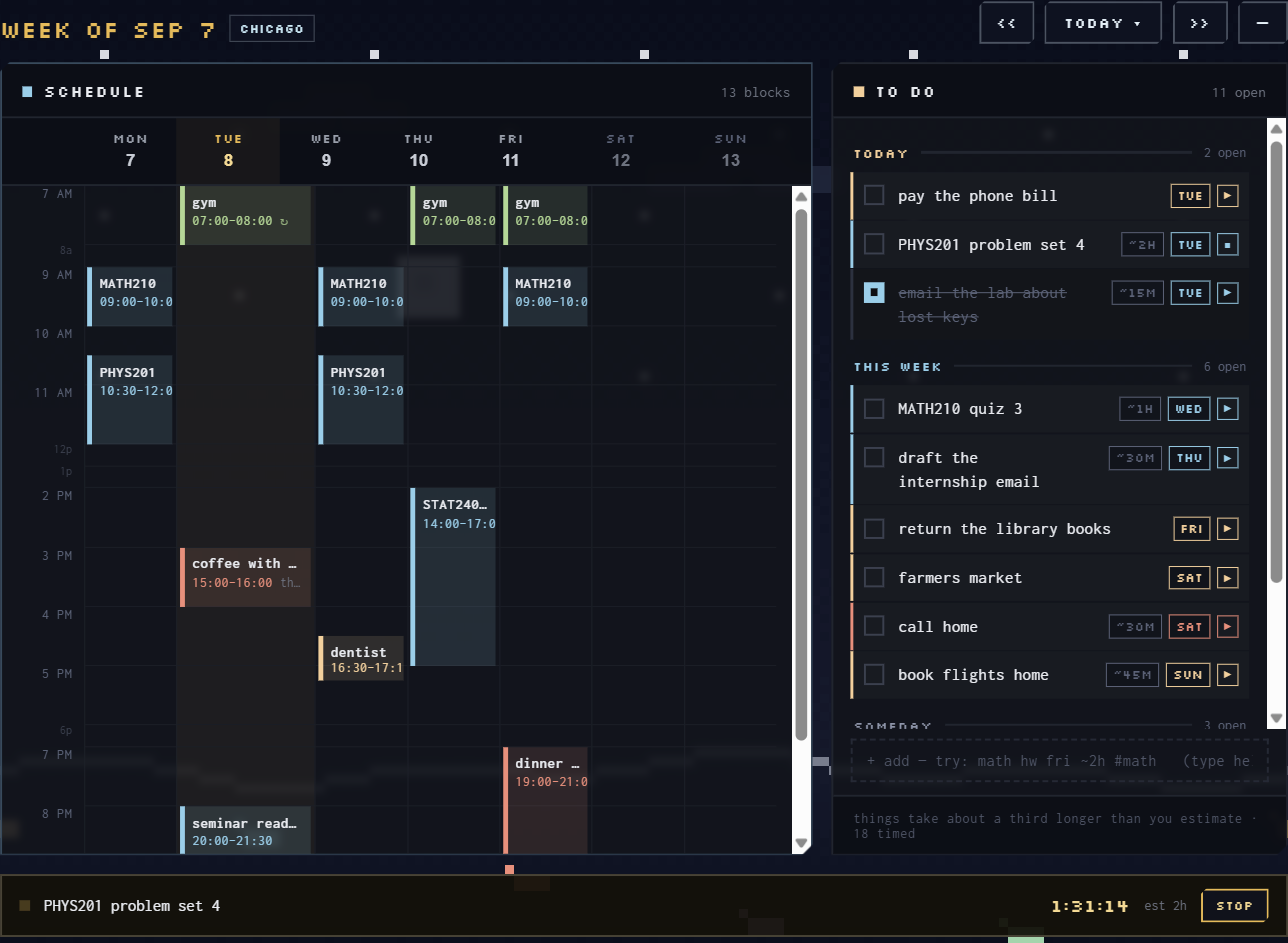
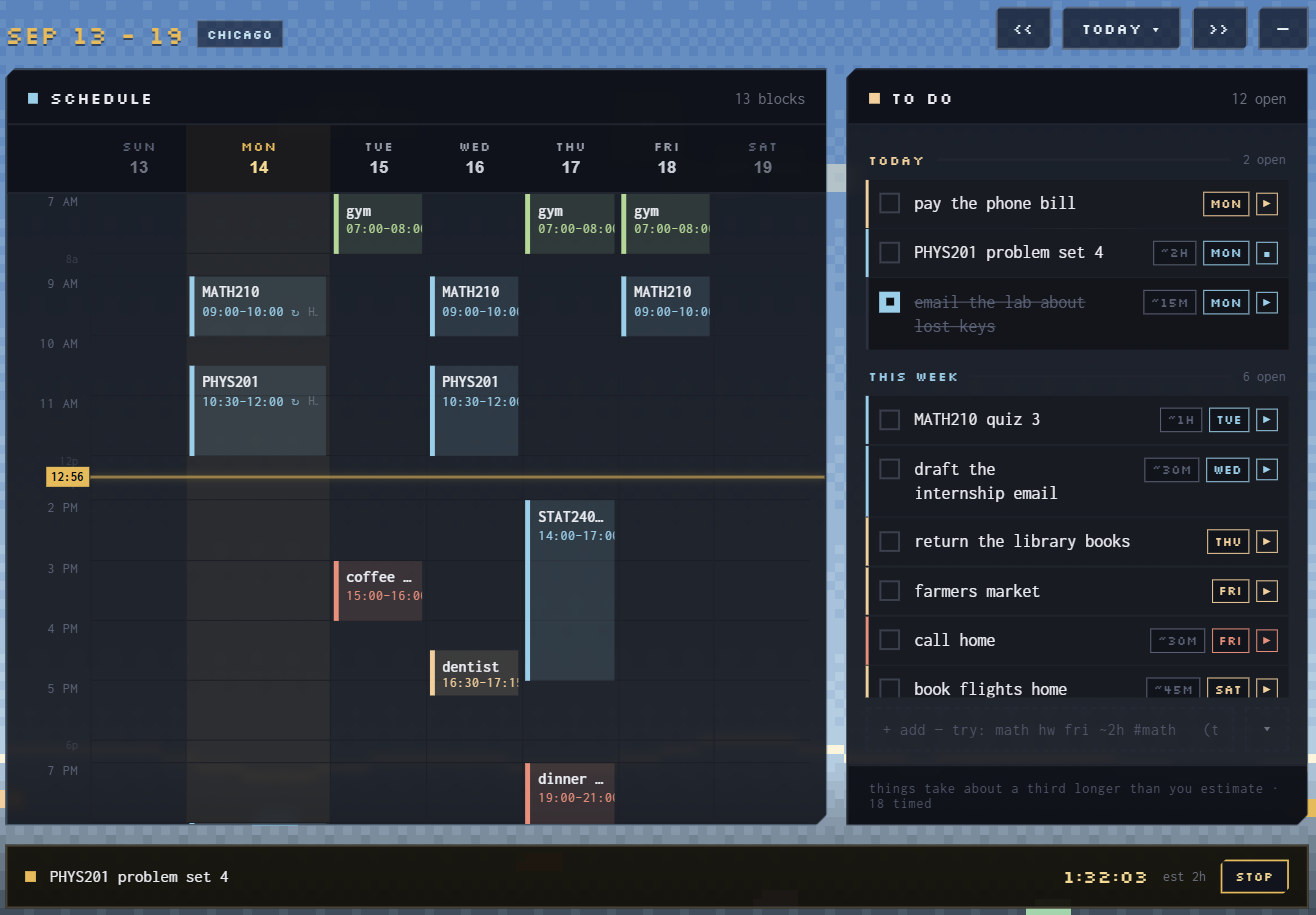
Screenshots of the week as it is now, from a fixture that keeps up
Both README screenshots were out of date: the hero showed "WEEK OF SEP 7" and
the Monday-first week, and the slot shot showed the one-line box that clicking
an hour no longer opens. They now show the rolling window, the now line with
its time box, the pane without scrollbars, and the prefilled field form.

Retaking them turned up a fixture problem: every date in the harness was
pinned to 7-13 September 2026, so once the window rolled past that week it
showed "0 blocks" -- and would have for anyone running it later. The fixture
is now placed against the real week each time it loads: classes on their
weekdays across this week and next, one-offs and due dates around today, and
times written as local wall-clock with no offset so they read the same in any
season. Nothing in it is a hard-coded date any more.

The slot shot's caption is updated to match what it shows.

Claude-Session: https://claude.ai/code/session_01AeBsWmBes22VeJkYkoWQon

diff --git a/tools/frontend-harness/stub.js b/tools/frontend-harness/stub.js
@@ -10,14 +10,19 @@
 
 const EMPTY = new URLSearchParams(location.search).has("empty");
 
-// A Monday, so the week starts where the app starts it.
-const MONDAY = "2026-09-07";
+// Everything is placed against the real week, so the fixture looks the same
+// whenever it is run: classes on their weekdays, everything else around today.
+const NOW = new Date();
+const MON = new Date(NOW.getFullYear(), NOW.getMonth(), NOW.getDate() - ((NOW.getDay() + 6) % 7));
+/** Today's offset from that Monday. */
+const T = (NOW.getDay() + 6) % 7;
+const MONDAY = `${MON.getFullYear()}-${String(MON.getMonth() + 1).padStart(2, "0")}-${String(MON.getDate()).padStart(2, "0")}`;
 const iso = (offset) => {
-  const d = new Date(2026, 8, 7 + offset);
+  const d = new Date(MON.getFullYear(), MON.getMonth(), MON.getDate() + offset);
   return `${d.getFullYear()}-${String(d.getMonth() + 1).padStart(2, "0")}-${String(d.getDate()).padStart(2, "0")}`;
 };
-// Chicago is UTC-5 in September; the frontend renders whatever offset it is given.
-const at = (offset, hhmm) => `${iso(offset)}T${hhmm}:00-05:00`;
+// Local wall-clock times with no offset, so they read the same in any season.
+const at = (offset, hhmm) => `${iso(offset)}T${hhmm}:00`;
 
 let seq = 0;
 const uid = (p) => `${p}_${(++seq).toString().padStart(4, "0")}`;
@@ -37,7 +42,7 @@ function itemFor(id, title, category, place, recurs, estimate_min) {
 /** A class: the same item placed on several days. */
 function course(title, days, start, end, place, category) {
   const id = itemFor(uid("itm"), title, category, place, true, null);
-  return days.map((d) => ({
+  return days.flatMap((d) => [d, d + 7]).map((d) => ({
     id: `plc_${iso(d)}_${id}`,
     item_id: id,
     title,
@@ -76,10 +81,10 @@ const blocks = EMPTY ? [] : [
   ...course("MATH210", [0, 2, 4], "09:00", "10:00", "Hall 1.204", "work"),
   ...course("STAT240 lab", [3], "14:00", "17:00", "Lab 3.210", "work"),
   ...course("gym", [1, 3, 4], "07:00", "08:00", null, "body"),
-  ...oneOff("coffee with Sam", 1, "15:00", "16:00", "the corner cafe", "social"),
-  ...oneOff("dentist", 2, "16:30", "17:15", null, "life"),
-  ...oneOff("dinner at Ana's", 4, "19:00", "21:00", null, "social"),
-  ...oneOff("seminar reading", 1, "20:00", "21:30", null, "work"),
+  ...oneOff("coffee with Sam", T + 1, "15:00", "16:00", "the corner cafe", "social"),
+  ...oneOff("dentist", T + 2, "16:30", "17:15", null, "life"),
+  ...oneOff("dinner at Ana's", T + 3, "19:00", "21:00", null, "social"),
+  ...oneOff("seminar reading", T, "20:00", "21:30", null, "work"),
 ];
 
 /** Seven days from whatever start the app asks for, as the real backend does. */
@@ -116,18 +121,18 @@ function todo(title, dueOffset, dueTime, opts = {}) {
   };
 }
 
-// "Today" in these screenshots is Tuesday 8 September.
+// Due dates sit around today, so every bucket and both chip styles appear.
 const todos = EMPTY ? [] : [
-  todo("PHYS201 problem set 4", 1, "23:59", { estimate_min: 120, category: "work", spent_sec: 2700 }),
-  todo("pay the phone bill", 1, "18:00", { category: "life" }),
-  todo("email the lab about lost keys", 1, "17:00", { estimate_min: 15, category: "work", done: true }),
-  todo("MATH210 quiz 3", 2, "23:59", { estimate_min: 60, category: "work" }),
-  todo("draft the internship email", 3, "12:00", { estimate_min: 30, category: "work" }),
-  todo("return the library books", 4, "17:00", { category: "life" }),
-  todo("farmers market", 5, "10:00", { category: "life" }),
-  todo("call home", 5, "18:00", { estimate_min: 30, category: "social" }),
-  todo("book flights home", 6, "23:59", { estimate_min: 45, category: "life" }),
-  todo("renew passport", 30, "12:00", { category: "life" }),
+  todo("PHYS201 problem set 4", T, "23:59", { estimate_min: 120, category: "work", spent_sec: 2700 }),
+  todo("pay the phone bill", T, "18:00", { category: "life" }),
+  todo("email the lab about lost keys", T, "17:00", { estimate_min: 15, category: "work", done: true }),
+  todo("MATH210 quiz 3", T + 1, "23:59", { estimate_min: 60, category: "work" }),
+  todo("draft the internship email", T + 2, "12:00", { estimate_min: 30, category: "work" }),
+  todo("return the library books", T + 3, "17:00", { category: "life" }),
+  todo("farmers market", T + 4, "10:00", { category: "life" }),
+  todo("call home", T + 4, "18:00", { estimate_min: 30, category: "social" }),
+  todo("book flights home", T + 5, "23:59", { estimate_min: 45, category: "life" }),
+  todo("renew passport", T + 27, "12:00", { category: "life" }),
   todo("renew parking", null, null, { category: "life" }),
   todo("fix the bike", null, null, { estimate_min: 90, category: "body" }),
   todo("start the reading list", null, null, {}),

diff --git a/README.md b/README.md
@@ -33,7 +33,7 @@ longer or shorter by their bottom edge. Dragging one occurrence of a repeating
 class moves **only that week** — the series is left alone, and restoring the
 date removes the moved copy so the class never appears twice.
 
-![Typing into an empty Saturday afternoon](docs/screenshots/add-in-an-hour.png)
+![Clicking an empty hour opens the fields with its date and time filled in](docs/screenshots/add-in-an-hour.png)
 
 Screenshots are of invented data, produced by
 [`tools/frontend-harness`](tools/frontend-harness) rather than anyone's real week.
